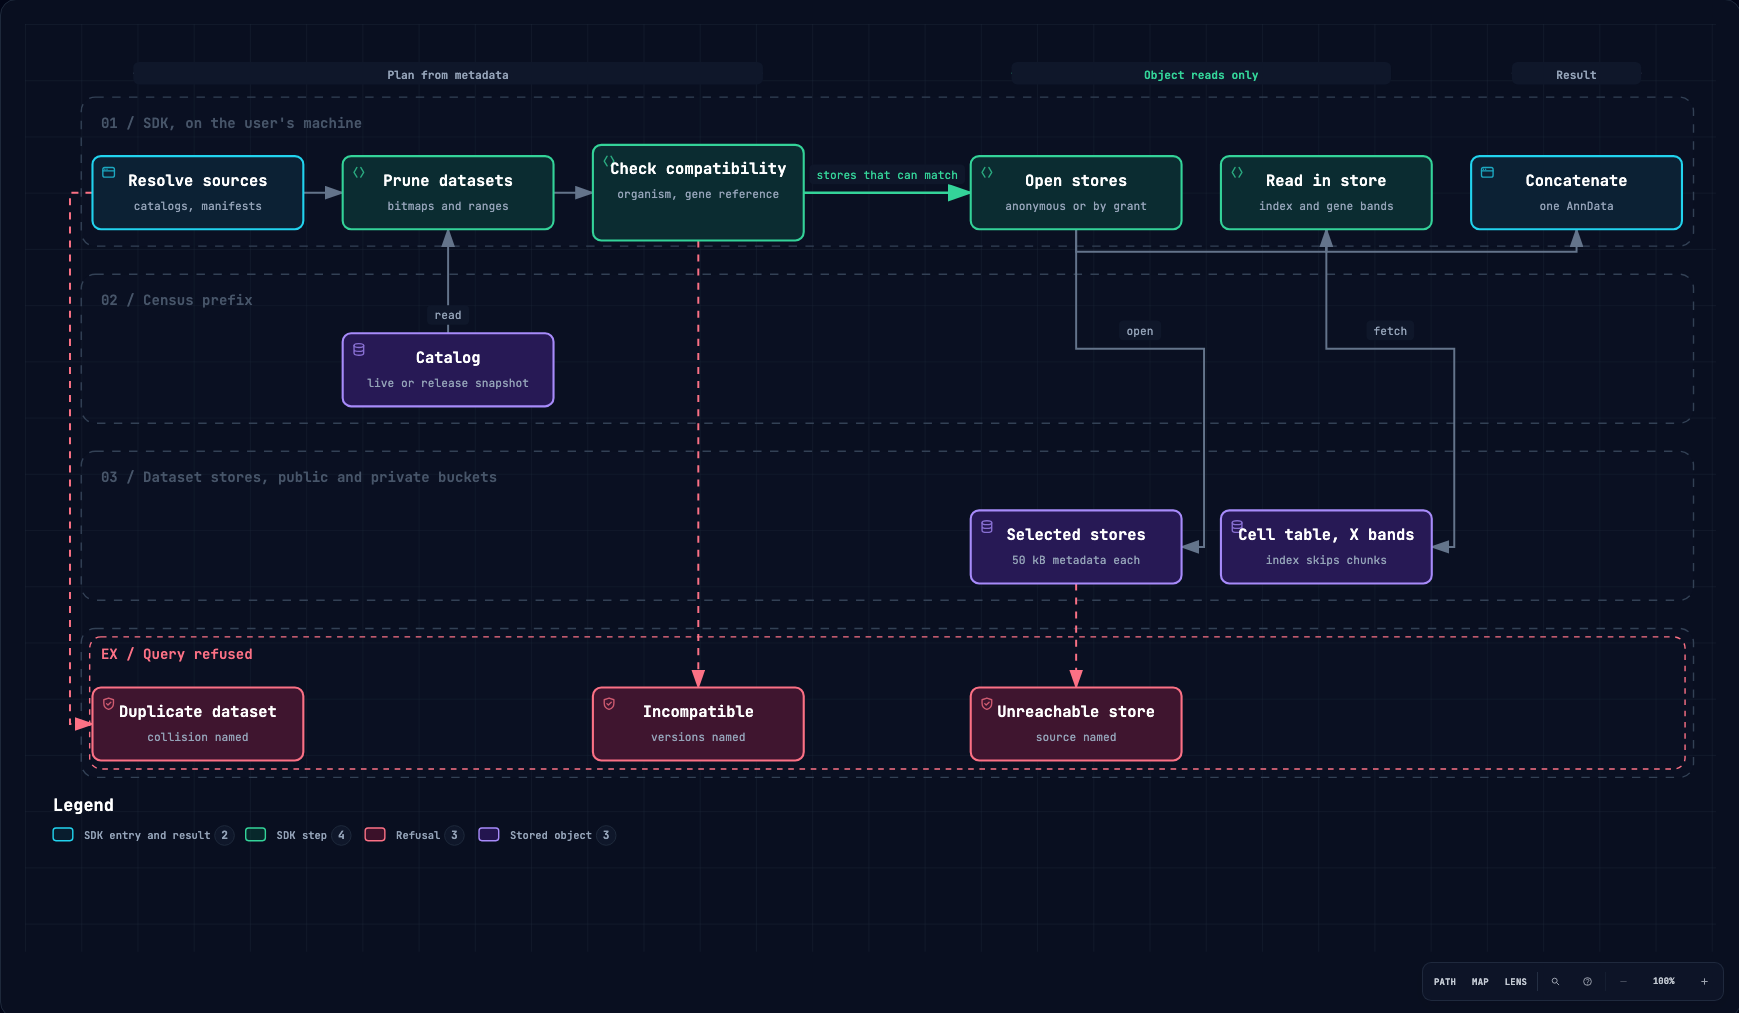
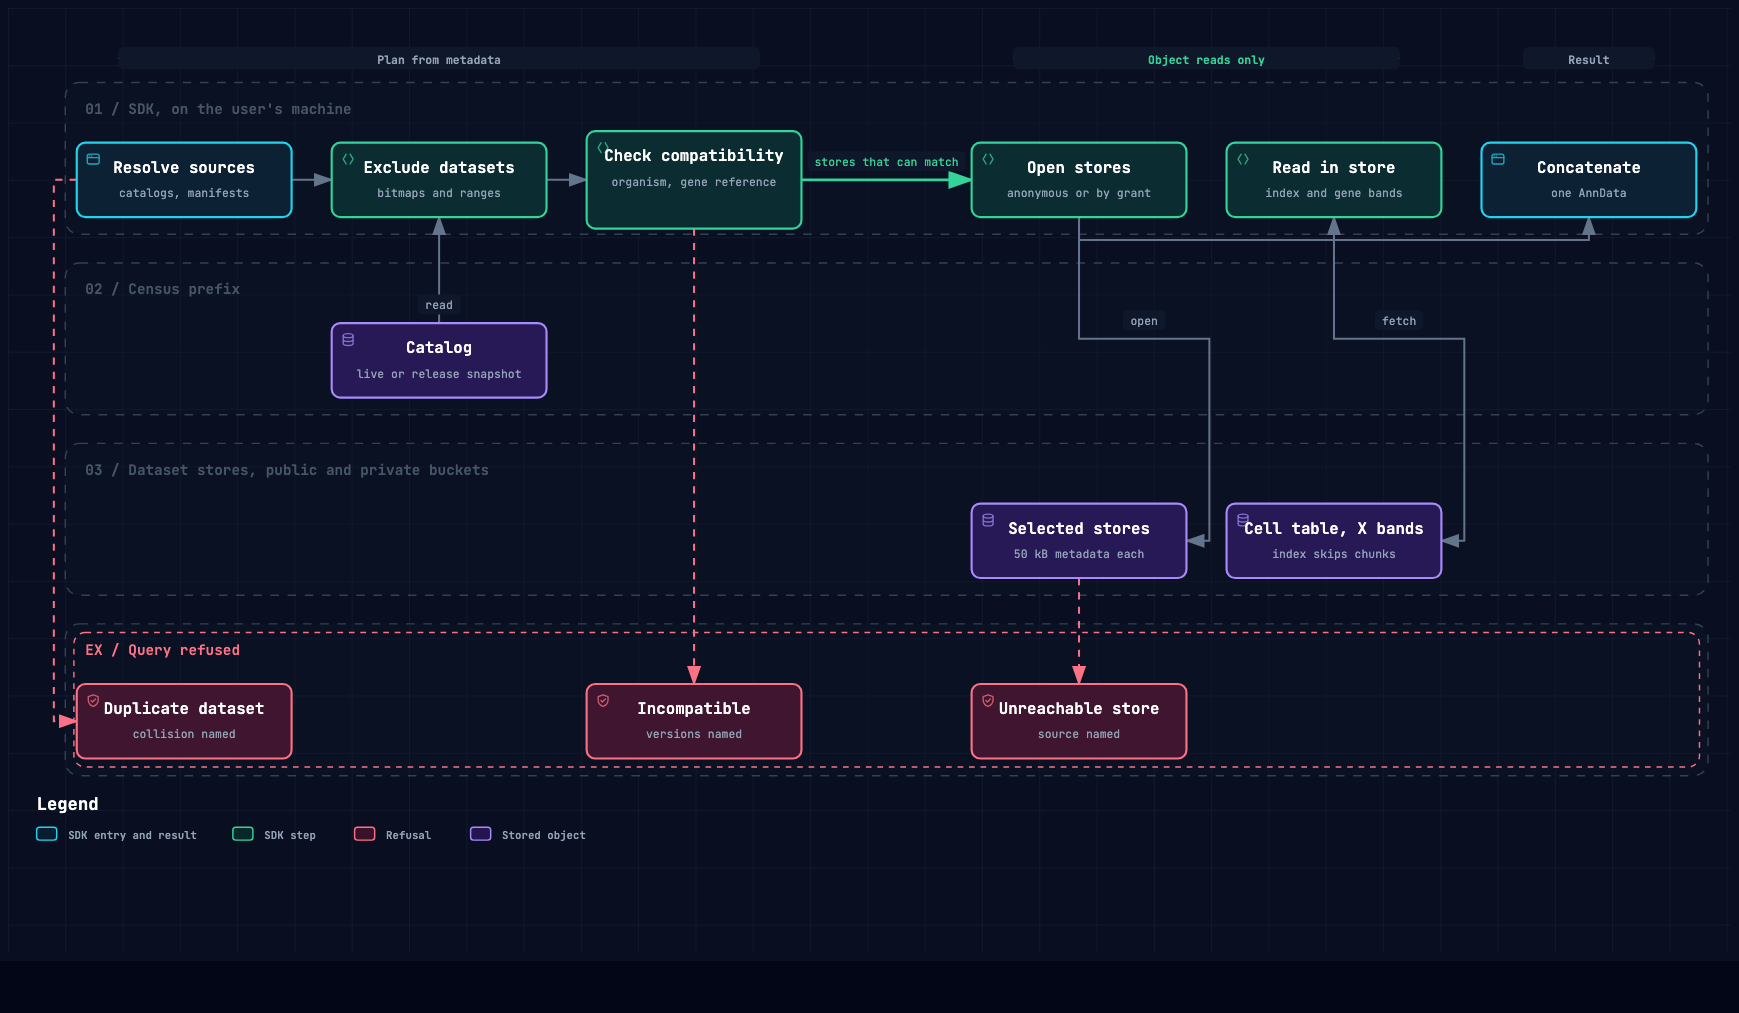
Add the release builder to the storage diagram
The storage diagram showed the catalog builder as the only writer under
the Census prefix. Design 3.3 splits that work. The catalog builder
writes catalog/ after each ingestion, and the release builder writes
releases/ on demand from the live catalog and the per-dataset files.
The query diagram now states the scope of the 2.6 percent figure from
design 1.4, and both diagrams say "exclude". The HTML viewer and the
PNG exports are rebuilt from the sources.

diff --git a/docs/diagrams/census-query-sequence.html b/docs/diagrams/census-query-sequence.html
@@ -5211,14 +5211,14 @@ OTHER DEALINGS IN THE FONT SOFTWARE.
           <text data-detail="context" x="123" y="132" class="t-muted" font-size="8" text-anchor="middle">catalogs, manifests</text>
         </g>
 
-        <g id="node-prune" data-node-id="prune" data-node-label="Prune datasets" tabindex="0" role="button" aria-label="Focus Prune datasets, bitmaps and ranges, SDK, on the user&#39;s machine › Plan from metadata" aria-pressed="false" data-node-kind="backend" data-node-sublabel="bitmaps and ranges" data-node-context="SDK, on the user&#39;s machine › Plan from metadata">
-          <title>Prune datasets · bitmaps and ranges · SDK, on the user&#39;s machine › Plan from metadata</title>
+        <g id="node-prune" data-node-id="prune" data-node-label="Exclude datasets" tabindex="0" role="button" aria-label="Focus Exclude datasets, bitmaps and ranges, SDK, on the user&#39;s machine › Plan from metadata" aria-pressed="false" data-node-kind="backend" data-node-sublabel="bitmaps and ranges" data-node-context="SDK, on the user&#39;s machine › Plan from metadata">
+          <title>Exclude datasets · bitmaps and ranges · SDK, on the user&#39;s machine › Plan from metadata</title>
           <rect x="226" y="94" width="150" height="52" rx="6" class="c-mask"/>
           <rect x="226" y="94" width="150" height="52" rx="6" class="c-backend" stroke-width="1.5"/>
           <g aria-hidden="true" data-semantic-sigil="backend" class="semantic-sigil s-backend" transform="translate(232 100) scale(0.6875)">
             <path d="M6 3 3 8l3 5M10 3l3 5-3 5"/>
           </g>
-          <text data-node-label="" data-detail-anchor="" x="301" y="115" class="t-primary" font-size="11" font-weight="600" text-anchor="middle">Prune datasets</text>
+          <text data-node-label="" data-detail-anchor="" x="301" y="115" class="t-primary" font-size="11" font-weight="600" text-anchor="middle">Exclude datasets</text>
           <text data-detail="context" x="301" y="132" class="t-muted" font-size="8" text-anchor="middle">bitmaps and ranges</text>
         </g>
 
@@ -5576,12 +5576,12 @@ OTHER DEALINGS IN THE FONT SOFTWARE.
       <div class="card">
         <div class="card-header">
           <div class="card-dot cyan"></div>
-          <h3>Prune before open</h3>
+          <h3>Exclude before open</h3>
         </div>
         <ul>
           <li>&bull; The catalog excludes whole datasets</li>
           <li>&bull; The per-chunk index excludes chunks inside each open store</li>
-          <li>&bull; A one-dataset query reads 2.6 percent of cell-table chunks</li>
+          <li>&bull; On the Census 1 human axis, the largest dataset holds 2.6 percent of cell-table chunks</li>
         </ul>
       </div>
 
